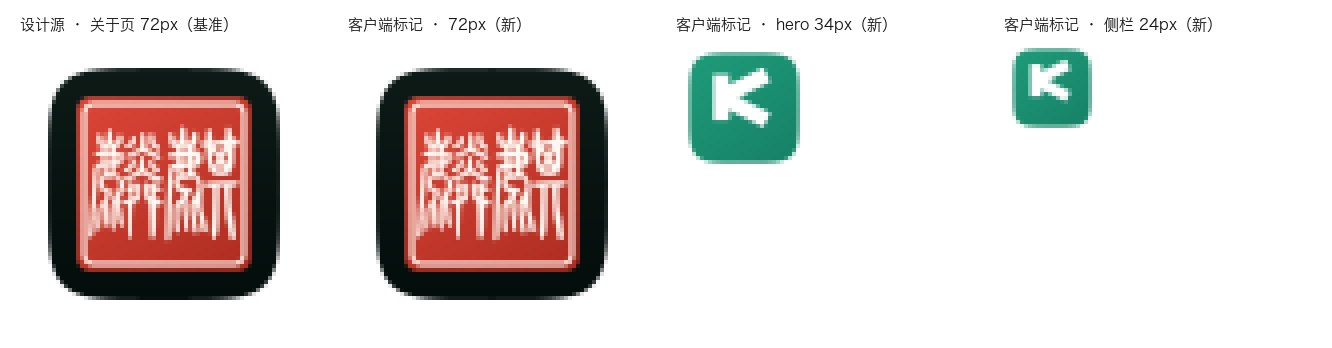
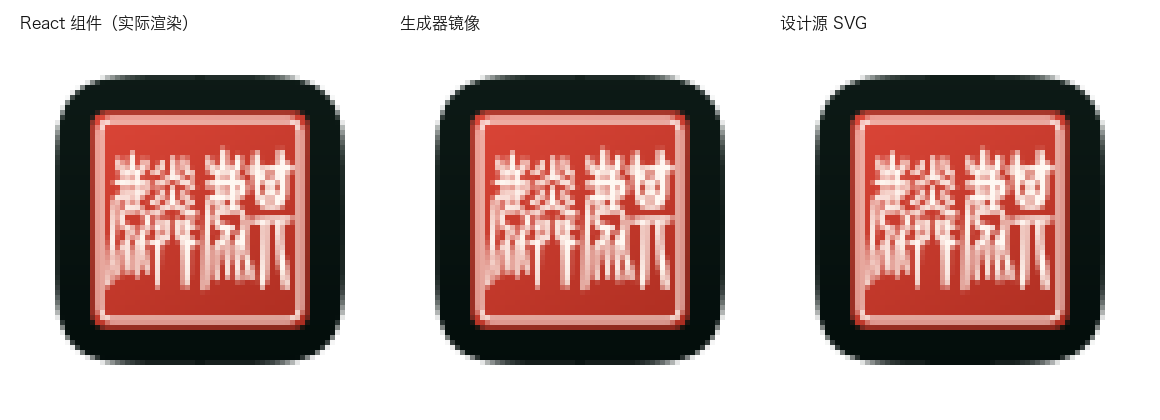
docs(design): UI 商标对照图补入 React 组件真实渲染 + 验证记录
- sheet-client-marks.png 第一格换成 reactor-dom/server 对三个槽位的实际渲染输出
- spec §6.5 补验证记录：24px 与生成器镜像逐像素一致（差 0）；72px 与设计源差
  1.66% 边缘抗锯齿像素（篆书路径 1 位小数压缩所致，无可见影响）

diff --git a/docs/superpowers/specs/2026-09-20-kstock-icon-refresh-design.md b/docs/superpowers/specs/2026-09-20-kstock-icon-refresh-design.md
@@ -179,6 +179,11 @@
      生成器同时输出镜像 SVG 供像素级等价验证（`sheet-client-marks.png`）。
    - 篆书路径 1 位小数压缩：22.1KB → 11.5KB；`lib/client.cjs` 24.5KB → 42.6KB（gzip 15.8KB）。
    - 该文件同时是 `lib/*` 构建产物的来源，改动后需 `pnpm -C kstock/client-brand build`。
+   - **验证记录**（2026-09-20）：`pnpm -C kstock/client-brand build` 通过；改动文件 `tsc --noEmit` 零报错；
+     `bash scripts/check-ci.sh` 全绿；另做了一次**组件级渲染验证**——用 `react-dom/server` 实际渲染三个槽位，
+     24px 输出与生成器镜像**逐像素完全一致**（最大通道差 0），72px 与设计源 SVG 的差异仅
+     1.66% 边缘抗锯齿像素（源于篆书路径 1 位小数压缩，无可见影响）。
+     可重复的等价性检查由 `gen_client_marks.py` 输出的镜像 SVG 承担。
 6. 新增 `scripts/build-icons.sh` 与 `scripts/check-ci.sh` 中的图标校验：
    尺寸齐全、命名正确（`trayTemplate.png` / `@2x`）、`ico` 含 7 档、icns 含 1024。
 
